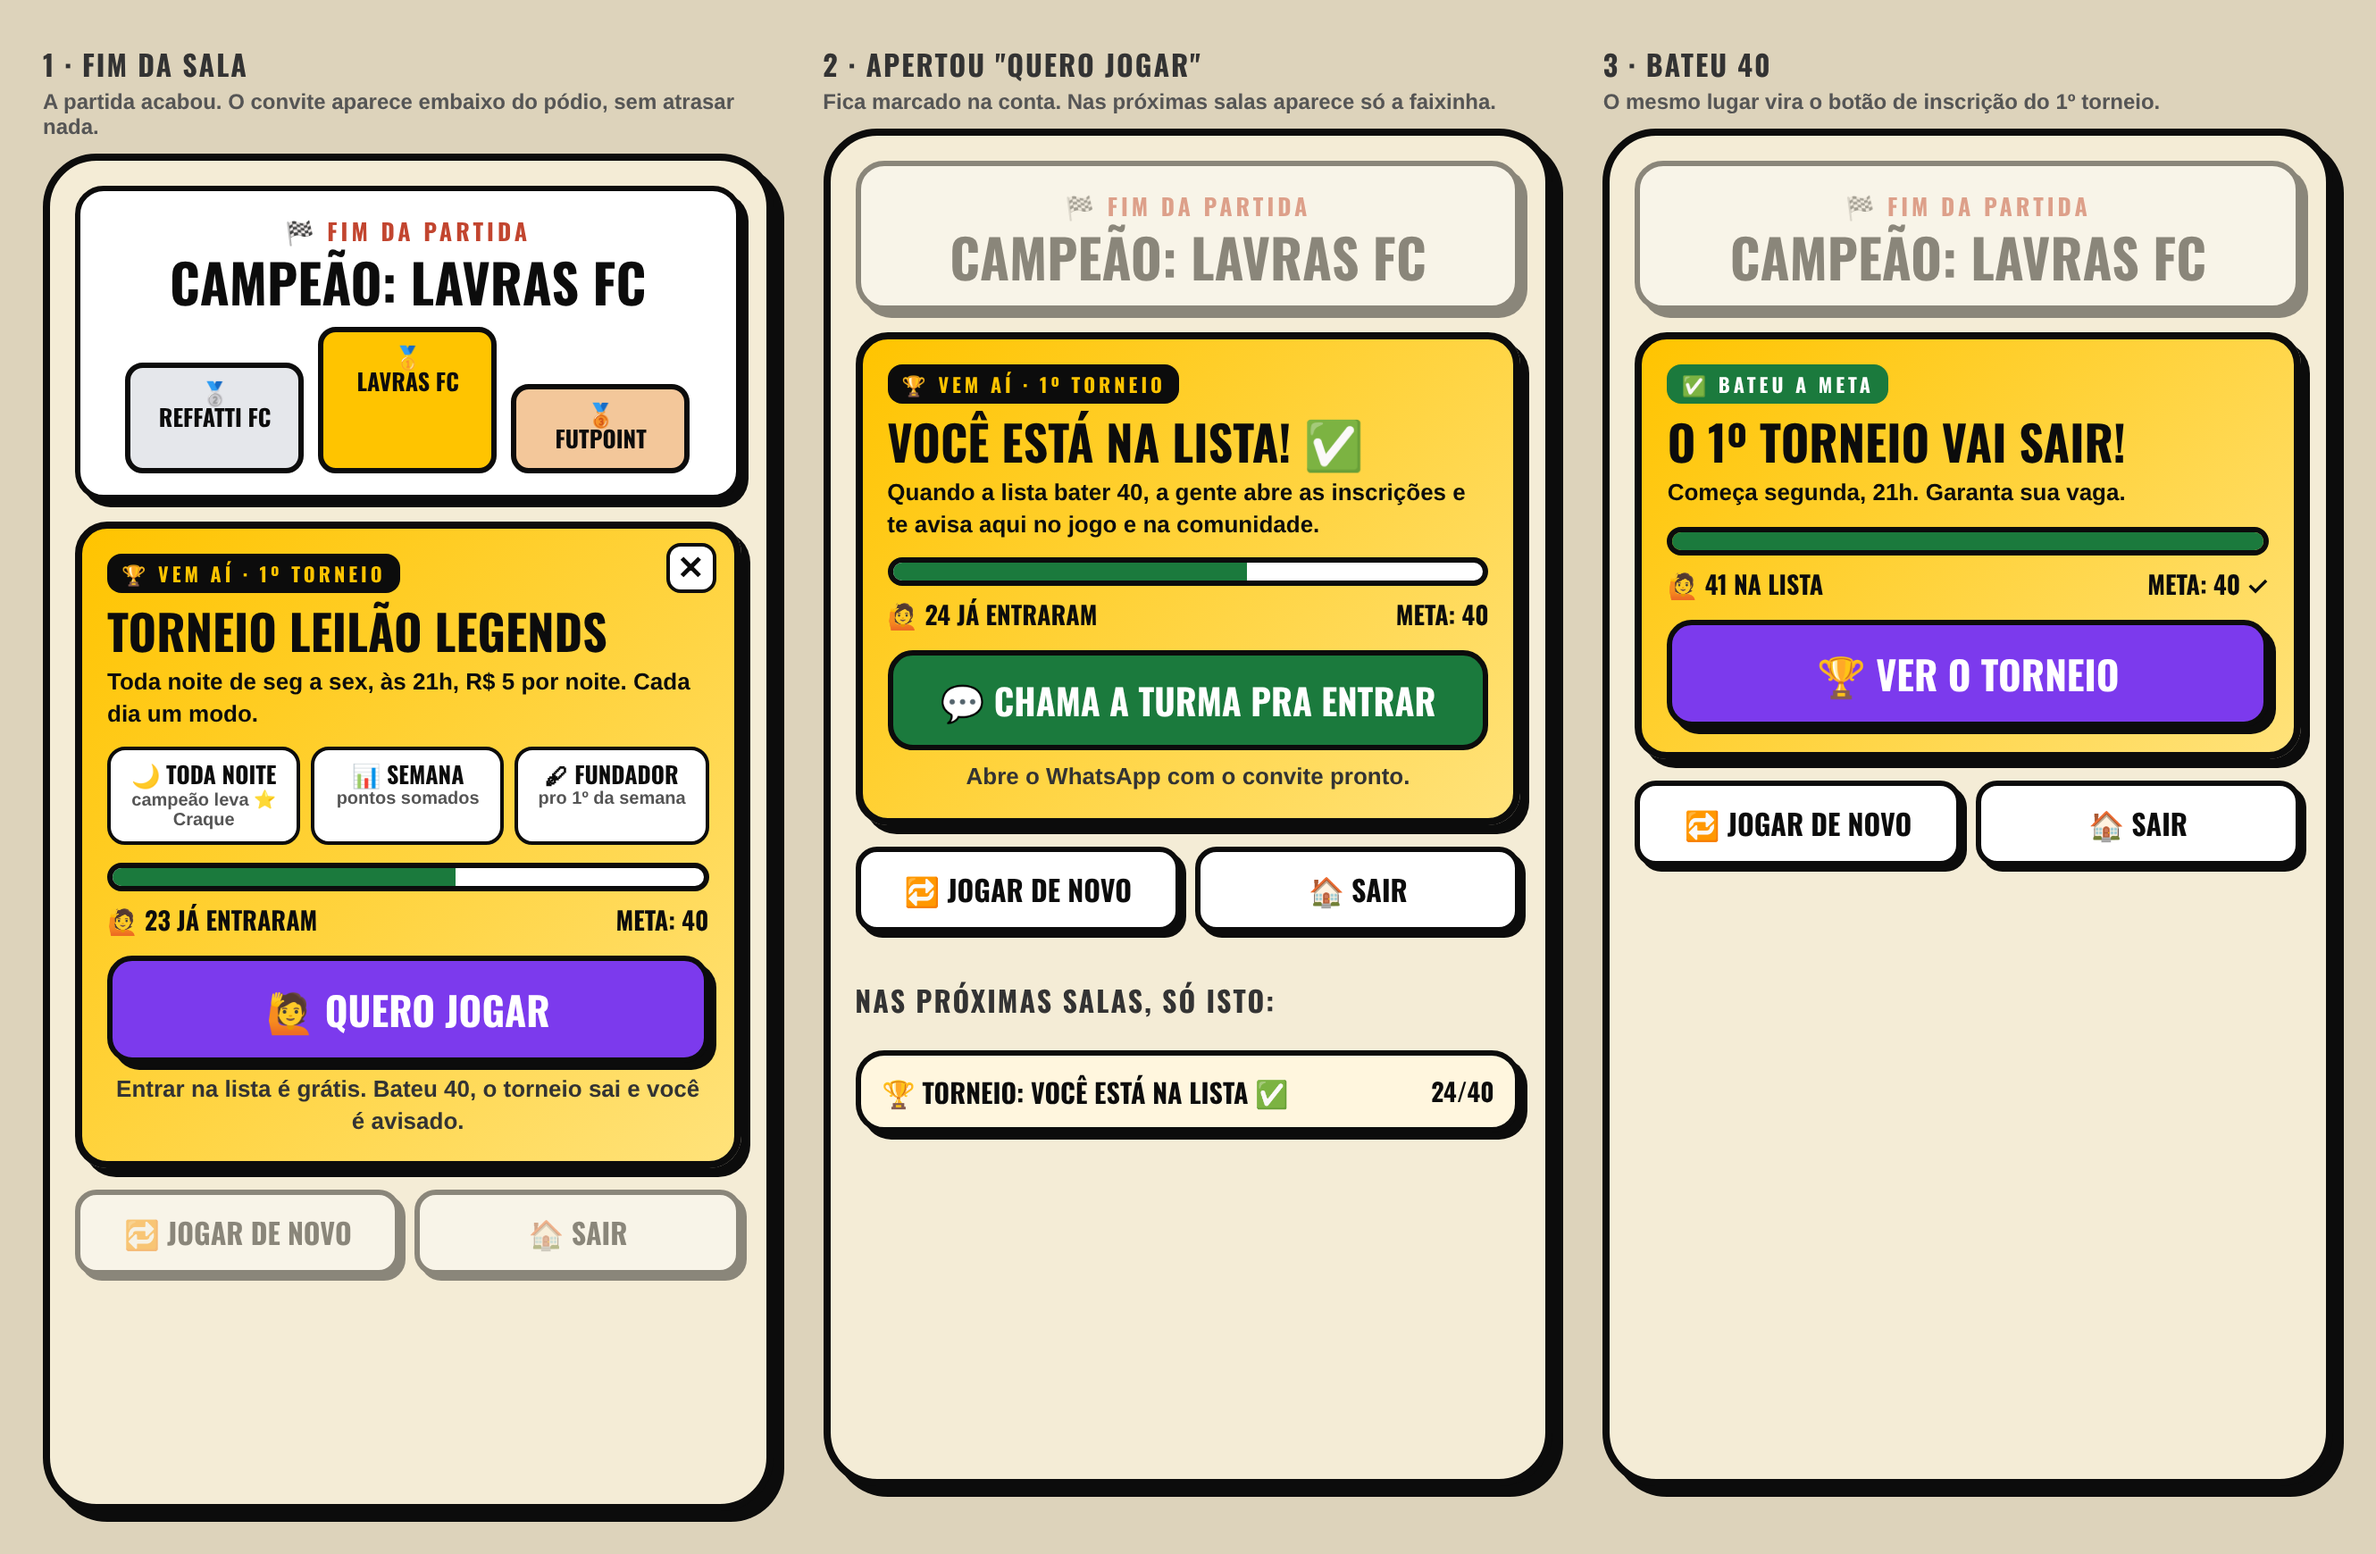
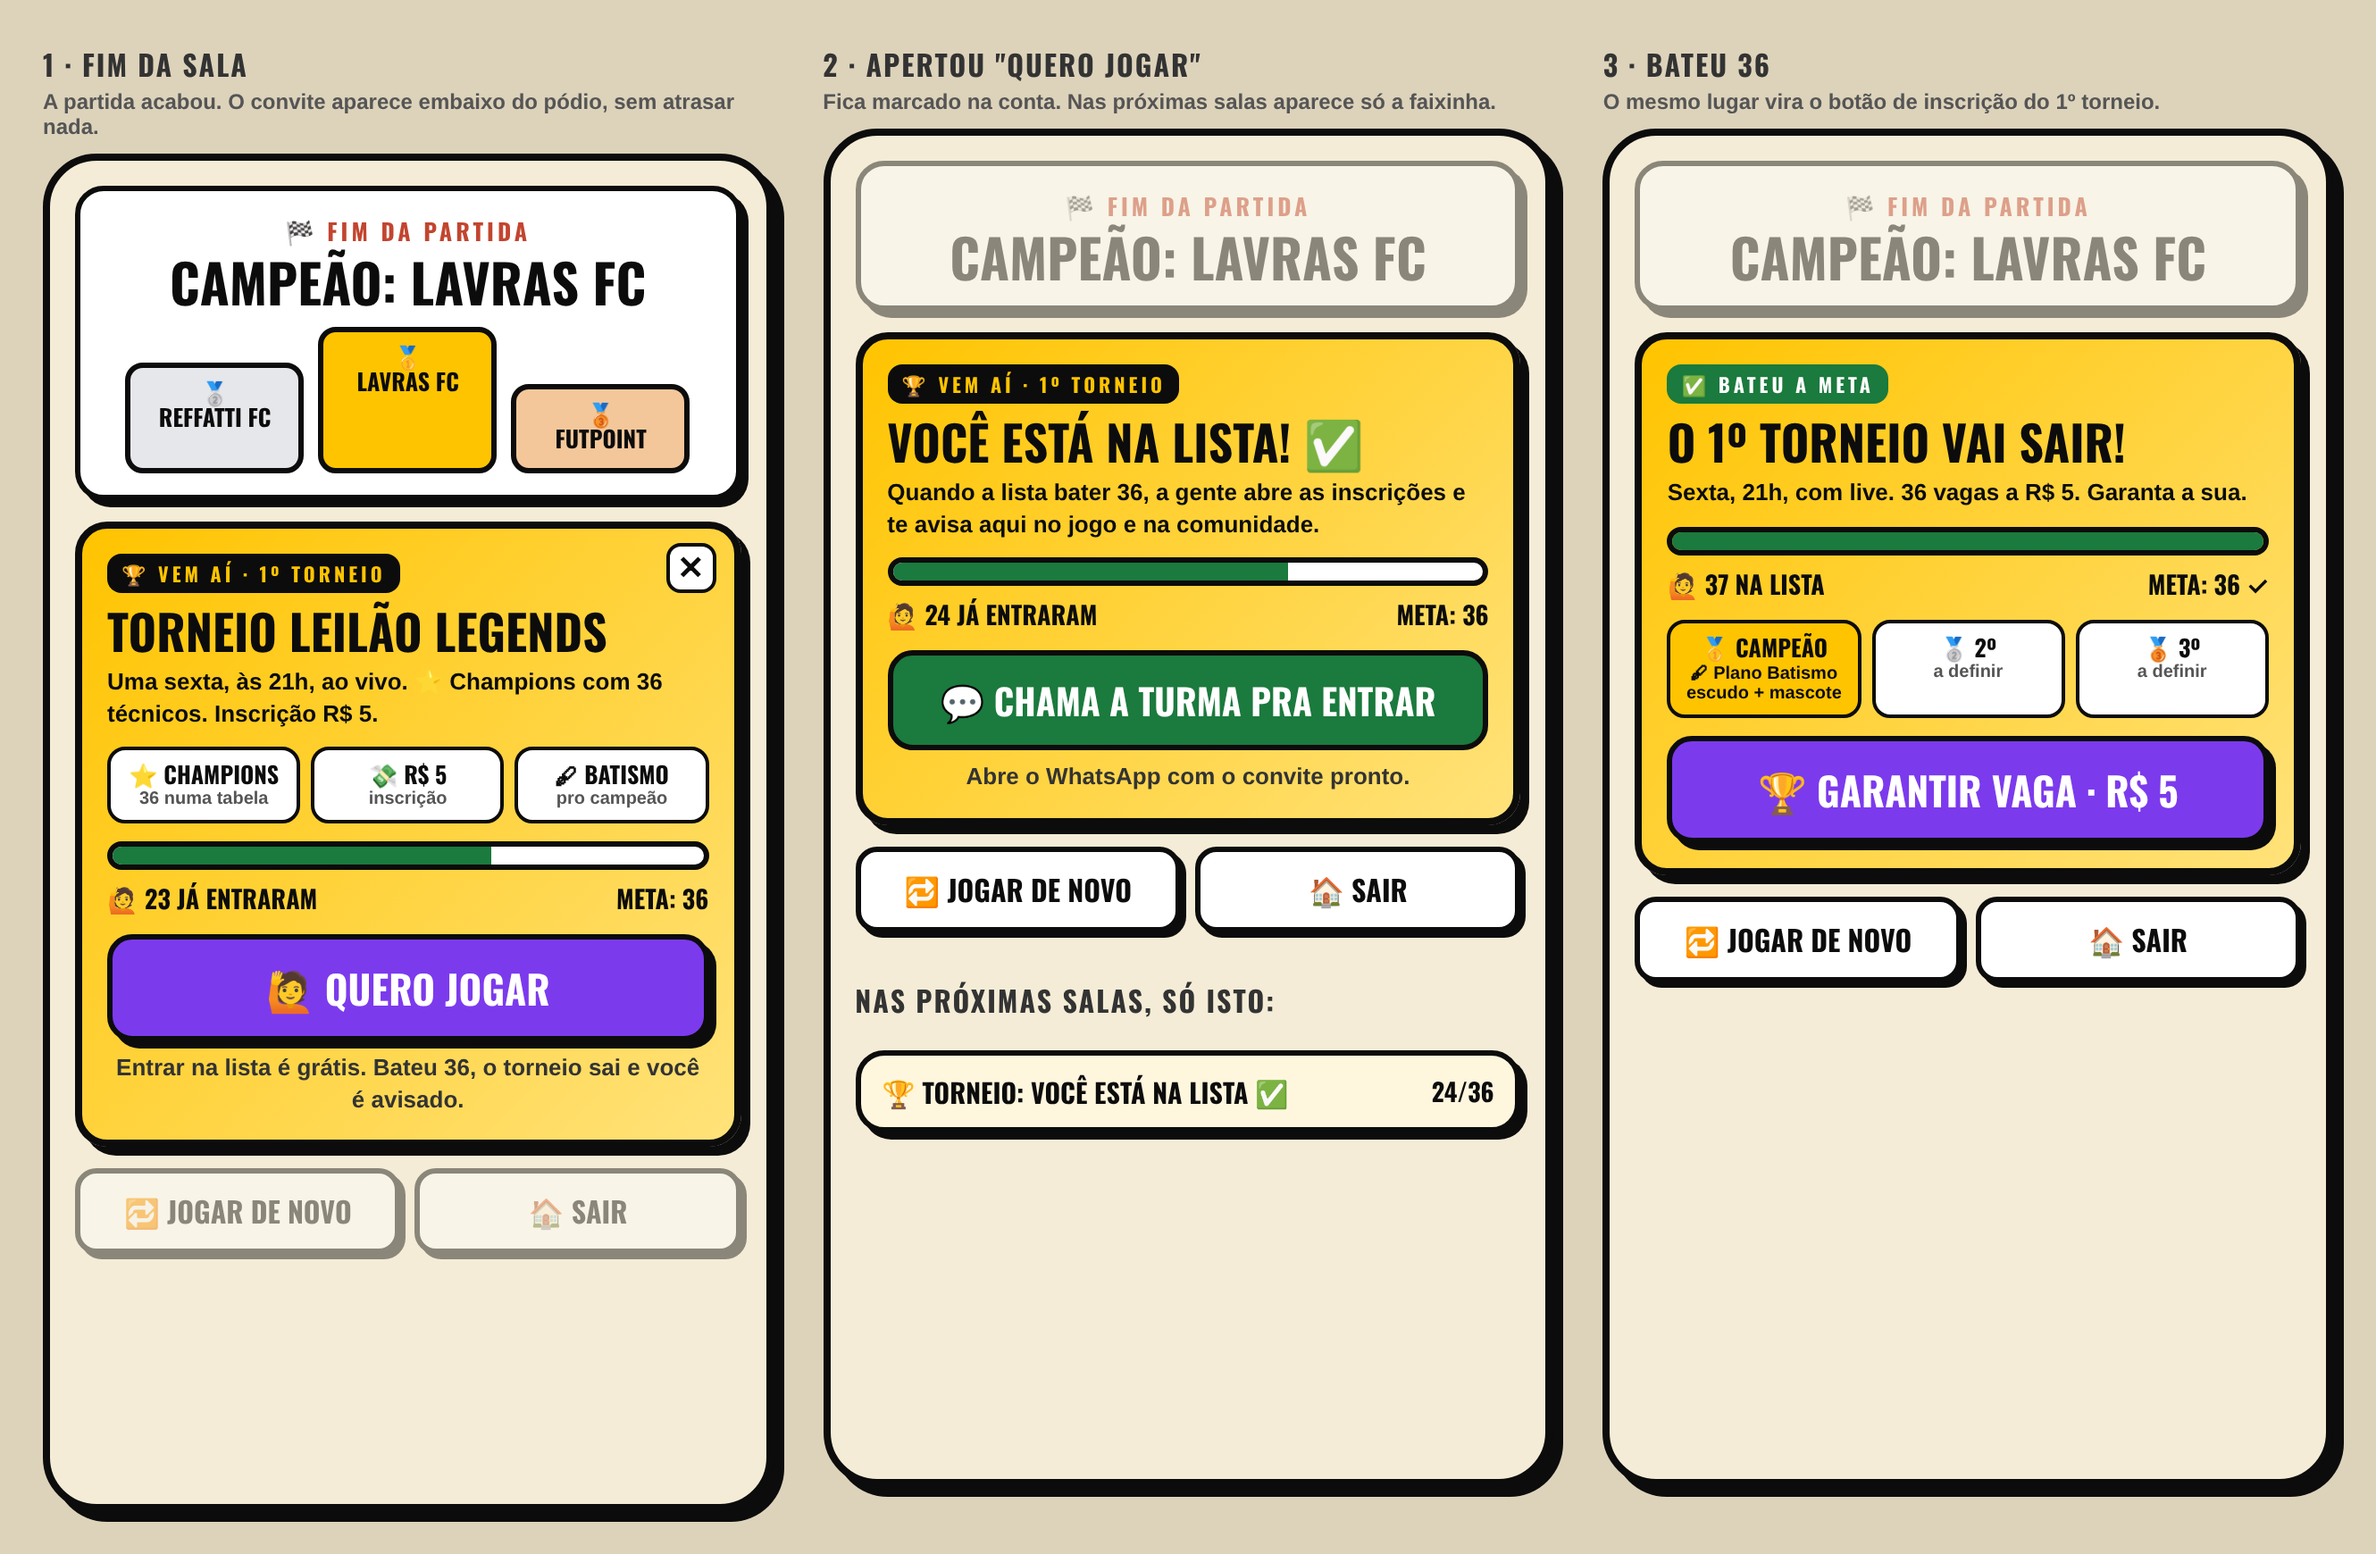
Torneio: 1º torneio numa sexta, Champions 36, R$ 5, campeão leva Batismo (mockup do convite atualizado)
Claude-Session: https://claude.ai/code/session_012GPrTDbpvrApA6DArkzCpE

diff --git a/docs/pendencias.md b/docs/pendencias.md
@@ -13697,3 +13697,6 @@ Compartilhar convite e chamar amigos passaram para o cabeçalho, junto do códig
 - Formato que está no aviso (proposta, AINDA NÃO DECIDIDO): seg a sex, 1 sala por noite a R$ 5 (Passe da Semana R$ 20), cada dia um modo
   (seg Tocaia · ter Pregão aberto · qua Clubes · qui Envelope único · sex Relâmpago), campeão da noite leva ⭐ Craque + selo 🏆,
   pontos da semana (1º 10 · 2º 7 · 3º 5 · jogou 1) → 🥇 Fundador · 🥈 Batismo · 🥉 Lenda. Nada de código feito.
+- 🔁 17/11 (mais tarde): Diego fechou o **1º torneio** = UMA sexta 21h, ⭐ Champions de 36, inscrição R$ 5, meta da lista = 36,
+  campeão leva 🖋 Plano Batismo (escudo + mascote); 2º e 3º A DECIDIR. Convite no fim das salas: `scripts/mockups/torneio-lista-fim-sala.png`
+  (cartão com "🙋 Quero jogar" + contador X/36; ✕ fecha pra sempre; depois de entrar vira faixinha). Aguardando OK pra construir.
